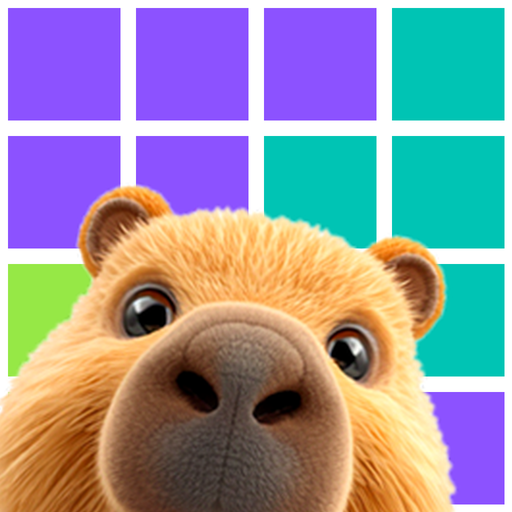
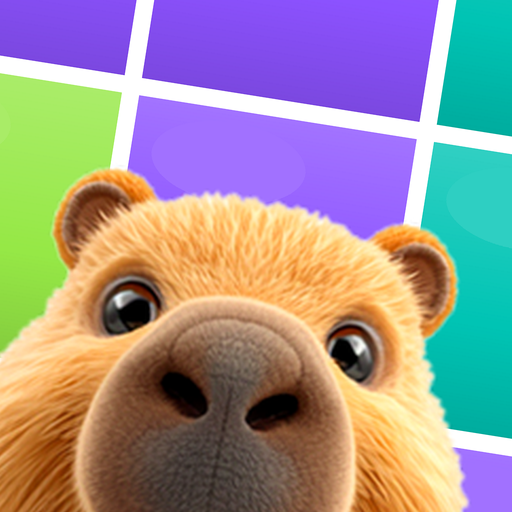
아이콘 광택·큰 타일, 출석은 선물을 안고 자는 카피로
**아이콘**(사용자 요청): 타일을 4칸 → 3칸으로 키우고, 판을 9° 눕히고,
칸마다 광택을 얹었다(위는 밝게 아래는 어둡게 + 왼쪽 위 하이라이트).
카피도 조금 더 키웠다. 단색 면은 아무리 색이 예뻐도 종이처럼 보인다.

광택을 넣다가 한 번 새까맣게 만들었다 — **RGBA 이미지에 직접 그리면 PIL이
알파를 안 섞고 그대로 덮어쓴다.** 따로 그린 뒤 합성해야 한다. 흰 선 굵기도
큰 캔버스가 아니라 잘라 낸 뒤의 크기 기준으로 잡는다(안 그러면 1.75배 굵다).

**출석**(사용자 지적: 이미지를 귀엽게, 더 직관적으로).
- 카피가 **오늘 받을 것을 안고 잔다.** 무엇을 받는지 글자보다 그림이 먼저
  말한다. 새 렌더가 아니라 리그의 `HeldFood`를 자는 자세에 물린 것이다
  (캔바 할당량이 없다 — 진짜 "귤 안은 어린이 카피" 렌더는 다음에).
- **버튼 하나가 전부다.** "화면 아무 데나 누르면 깨어나요"는 정서는 좋았지만
  뭘 받는지, 뭘 해야 하는지가 안 보였다. 이제 버튼에 개수가 적혀 있고
  (`당근 3개 받기`), 받고 나면 그 버튼이 나가는 문이 된다.
- 깨는 동작을 하품 → 폴짝에서 **놀람 → 폴짝**으로 바꿨다. 하품은 2.6초짜리라
  버튼을 누른 사람에게는 그 사이가 먹통으로 느껴진다.
- 카피를 키우고(화면 높이의 31%) 여백을 줄였다. 이 화면의 주인공이다.

diff --git a/lib/ui/checkin_scene.dart b/lib/ui/checkin_scene.dart
@@ -9,9 +9,13 @@
 /// 그대로였다). 그건 **어느 게임에 붙여도 되는 화면**이라, 이 앱을 여는
 /// 첫 순간을 그런 것에 내주는 게 아까웠다.
 ///
-/// 지금은 이렇다. 초원에서 카피가 자고 있다 → 톡 깨운다 → 기지개를 켜고
-/// 폴짝 뛴다 → 당근이 쏟아진다. **깨우는 행동이 곧 출석**이고, 그게 이
-/// 게임에서 매일 하는 일(들여다보고 먹인다)과 같은 몸짓이다.
+/// 지금은 이렇다. 초원에서 카피가 **오늘의 선물을 안고 자고 있다** → 버튼을
+/// 누르면 깨어나 폴짝 뛰고 당근이 쏟아진다. 깨우는 행동이 곧 출석이고,
+/// 그게 이 게임에서 매일 하는 일(들여다보고 먹인다)과 같은 몸짓이다.
+///
+/// 한때는 "화면 아무 데나 누르면 깨어나요"였다. 정서는 좋았지만 **뭘 받는지,
+/// 뭘 해야 하는지가 안 보였다** — 받을 것을 카피 품에 안겨 두고 버튼에 그
+/// 개수를 적으니 누르기 전에 이미 다 읽힌다.
 ///
 /// 말투는 나른하게 — 이 앱에서 호들갑은 금지다.
 library;
@@ -92,10 +96,11 @@ class _CheckinSceneState extends State<CheckinScene>
     if (_awake) return;
     setState(() => _awake = true);
     Buzz.medium();
-    // 하품 → (길이만큼 기다렸다) 폴짝. 자다 깬 것이 먼저 읽혀야 한다.
-    _capy.play(CapyAct.yawn);
+    // 깜짝 놀라 깼다가 곧바로 신나서 폴짝. 하품부터 시키면 2.6초를 기다려야
+    // 해서, 버튼을 누른 사람에게는 그 사이가 "먹통"으로 느껴진다.
+    _capy.play(CapyAct.startle);
     Sfx.pet();
-    Timer(const Duration(milliseconds: 2500), () {
+    Timer(const Duration(milliseconds: 800), () {
       if (!mounted) return;
       _capy.play(CapyAct.cheer);
       Sfx.sparkle();
@@ -129,7 +134,8 @@ class _CheckinSceneState extends State<CheckinScene>
   @override
   Widget build(BuildContext context) {
     final size = MediaQuery.sizeOf(context);
-    final capyH = (size.height * 0.24).clamp(150.0, 260.0);
+    // 카피가 이 화면의 주인공이다. 작게 두면 초원 사진에 점 하나가 된다.
+    final capyH = (size.height * 0.31).clamp(190.0, 330.0);
     return Scaffold(
       backgroundColor: const Color(0xFFF7E9C8),
       body: GestureDetector(
@@ -151,7 +157,7 @@ class _CheckinSceneState extends State<CheckinScene>
           Positioned(
             left: 0,
             right: 0,
-            top: size.height * 0.52 - capyH,
+            top: size.height * 0.62 - capyH,
             height: capyH,
             child: Center(
               child: SizedBox(
@@ -170,11 +176,19 @@ class _CheckinSceneState extends State<CheckinScene>
                             controller: _capy,
                             skin: widget.skin,
                             happy: true)
-                        : CapySleeping(skin: widget.skin, height: capyH),
+                        // **오늘 받을 것을 안고 잔다.** 무엇을 받는지 글자로
+                        // 적기 전에 그림으로 먼저 보인다.
+                        : CapySleeping(
+                            skin: widget.skin,
+                            height: capyH,
+                            food: HeldFood(
+                                watermelon: _isLast, eaten: 0),
+                          ),
                     if (!_awake)
+                      // 머리 바로 오른쪽 위. 멀리 두면 누구 잠인지 안 읽힌다.
                       Positioned(
-                          top: -capyH * 0.06,
-                          right: -capyH * 0.10,
+                          bottom: capyH * 0.66,
+                          right: capyH * 0.04,
                           child: const _Zzz()),
                   ],
                 ),
@@ -217,15 +231,15 @@ class _CheckinSceneState extends State<CheckinScene>
           // ── 글자와 도장판 ──
           SafeArea(
             child: Column(children: [
-              const SizedBox(height: 18),
+              const SizedBox(height: 14),
               _StreakBadge(streak: widget.streak),
               const SizedBox(height: 6),
               Text(
                 widget.claimed
                     ? '오늘 몫은 다 받았어요'
                     : _awake
-                        ? (_isLast ? '일곱 날을 채웠네요' : '$_carrots개 챙겨 뒀어요')
-                        : '카피가 자고 있어요',
+                        ? (_isLast ? '일곱 날을 채웠네요!' : '잘 받았어요')
+                        : '카피가 안고 자고 있어요',
                 style: const TextStyle(
                     fontSize: 15,
                     color: Palette.brown,
@@ -244,36 +258,28 @@ class _CheckinSceneState extends State<CheckinScene>
                 child: SizedBox(
                   width: double.infinity,
                   height: 58,
-                  child: AnimatedOpacity(
-                    duration: const Duration(milliseconds: 300),
-                    opacity: _awake ? 1 : 0.0,
-                    child: FilledButton(
-                      style: FilledButton.styleFrom(
-                        backgroundColor: const Color(0xFFE8830C),
-                        shape: RoundedRectangleBorder(
-                            borderRadius: BorderRadius.circular(999)),
-                      ),
-                      onPressed: _awake ? widget.onClaim : null,
-                      child: const Text('초원으로',
-                          style:
-                              TextStyle(fontSize: 19, color: Colors.white)),
+                  // **버튼 하나가 전부다.** 누르기 전에는 오늘 받을 것을
+                  // 개수까지 적어 두고, 받고 나면 나가는 문이 된다.
+                  child: FilledButton(
+                    style: FilledButton.styleFrom(
+                      backgroundColor: const Color(0xFFE8830C),
+                      shape: RoundedRectangleBorder(
+                          borderRadius: BorderRadius.circular(999)),
+                    ),
+                    onPressed: _awake ? widget.onClaim : _wake,
+                    child: Text(
+                      _awake
+                          ? '초원으로'
+                          : _isLast
+                              ? '당근 $_carrots개 + 수박 받기'
+                              : '당근 $_carrots개 받기',
+                      style: const TextStyle(
+                          fontSize: 19, color: Colors.white),
                     ),
                   ),
                 ),
               ),
               const SizedBox(height: 10),
-              // 깨우기 전에는 무엇을 해야 하는지 알려 준다. 화면 어디를 눌러도
-              // 되므로 버튼을 따로 두지 않는다 — 자는 걸 깨우는 일에 확인
-              // 버튼이 붙으면 그건 절차가 된다.
-              AnimatedOpacity(
-                duration: const Duration(milliseconds: 250),
-                opacity: _awake ? 0 : 1,
-                child: const Text('화면을 톡 누르면 깨어나요',
-                    style: TextStyle(
-                        fontSize: 13,
-                        color: Palette.brownSoft,
-                        fontFamily: 'Apple SD Gothic Neo')),
-              ),
               const SizedBox(height: 18),
             ]),
           ),

diff --git a/lib/art/capy_rig.dart b/lib/art/capy_rig.dart
@@ -1149,7 +1149,11 @@ class CapySleeping extends StatefulWidget {
   final String skin;
   final double height;
 
-  const CapySleeping({super.key, required this.skin, required this.height});
+  /// 안고 자는 것. null이면 빈손이다.
+  final HeldFood? food;
+
+  const CapySleeping(
+      {super.key, required this.skin, required this.height, this.food});
 
   @override
   State<CapySleeping> createState() => _CapySleepingState();
@@ -1190,11 +1194,15 @@ class _CapySleepingState extends State<CapySleeping>
             lean: 0.075,
             breathe: breath,
             squash: 0.10 - breath * 0.04,
-            armL: -0.10,
-            armR: 0.10,
+            // 뭘 안고 자면 앞발이 가슴 앞으로 모인다. 빈손이면 늘어뜨린다.
+            armL: widget.food != null ? -0.40 : -0.10,
+            armR: widget.food != null ? 0.40 : 0.10,
+            armLY: widget.food != null ? -0.035 : 0,
+            armRY: widget.food != null ? -0.035 : 0,
           ),
           height: widget.height,
           skin: widget.skin,
+          food: widget.food,
         );
       },
     );

diff --git a/tool/gen_icon.py b/tool/gen_icon.py
@@ -32,44 +32,83 @@ COLORS = [
 ]
 
 # 칸을 나누는 흰 선의 굵기(아이콘 크기 대비). 얇으면 48dp에서 사라진다.
-LINE_W = 0.030
+LINE_W = 0.034
 
-# 몇 칸으로 나눌까. 많으면 작게 줄었을 때 잔무늬가 된다.
-CELLS = 4
+# 몇 칸으로 나눌까. **적을수록 칸이 커서 멀리서도 읽힌다** — 4칸일 때는
+# 작게 줄이면 잔무늬가 됐다.
+CELLS = 3
+
+# 판을 이만큼 비스듬히 눕힌다. 반듯하면 UI 부품처럼 보이고, 너무 기울이면
+# 무슨 모양인지 안 읽힌다.
+GRID_TILT = -9
 
 # 어느 칸이 어느 색인가. **덩어리로 묶는다** — 체크무늬로 흩으면 퍼즐의
-# 색영역이 아니라 그냥 무늬가 된다. 이 게임의 판이 실제로 이렇게 생겼다.
+# 색영역이 아니라 그냥 무늬가 된다.
 REGIONS = [
-    [0, 0, 0, 1],
-    [0, 0, 1, 1],
-    [2, 0, 0, 1],
-    [2, 2, 0, 0],
+    [0, 0, 1],
+    [2, 0, 1],
+    [2, 0, 0],
 ]
 
 
+def _gloss(im, cells, step):
+    """칸마다 **위는 밝고 아래는 어둡게**, 그리고 왼쪽 위에 하이라이트.
+
+    단색 면은 아무리 색이 예뻐도 종이처럼 보인다. 같은 색의 밝기만 위아래로
+    벌려 주면 유리·사탕처럼 읽히고, 거기에 흰 하이라이트를 얹으면 반사가
+    생겨 입체가 된다.
+
+    **따로 그린 뒤 합성한다.** RGBA 이미지에 직접 그리면 PIL이 알파를 섞지
+    않고 그대로 덮어써서, 반투명하게 얹으려던 것이 새까만 띠가 된다.
+    """
+    over = Image.new('RGBA', im.size, (0, 0, 0, 0))
+    d = ImageDraw.Draw(over)
+    for row in range(cells):
+        for col in range(cells):
+            x0, y0 = col * step, row * step
+            # 위에서 아래로 어두워지는 그라디언트를 가로줄로 그린다.
+            for k in range(int(step)):
+                t = k / step
+                a = int(52 * (1 - t) - 34 * t)          # +밝게 → -어둡게
+                c = (255, 255, 255, a) if a > 0 else (0, 0, 0, -a)
+                d.line([(x0, y0 + k), (x0 + step, y0 + k)], fill=c)
+            # 왼쪽 위 하이라이트 — 둥근 광원이 비친 자리.
+            d.ellipse([x0 + step * 0.10, y0 + step * 0.07,
+                       x0 + step * 0.62, y0 + step * 0.34],
+                      fill=(255, 255, 255, 46))
+    im.alpha_composite(over)
+    return im
+
+
 def background(size):
-    """색영역 지도 + **흰 격자선**.
+    """색영역 지도 + **흰 격자선**, 살짝 눕히고 광택을 얹는다.
 
     한때 둥근 타일을 사이 간격을 두고 깔았는데, 그건 퍼즐판이 아니라 앱
     아이콘 모음처럼 보였다. 실제 판처럼 **면을 맞붙이고 흰 선으로 가르면**
     한눈에 "칸을 나눠 채우는 게임"으로 읽힌다(레퍼런스도 같은 문법이다).
     """
-    im = Image.new('RGBA', (size, size), COLORS[0])
+    # 눕혀도 네 귀퉁이가 비지 않도록 넉넉히 그린 뒤 잘라 낸다.
+    big = int(size * 1.75)
+    step = big / CELLS
+    im = Image.new('RGBA', (big, big), COLORS[0])
     d = ImageDraw.Draw(im)
-    step = size / CELLS
     for row in range(CELLS):
         for col in range(CELLS):
             d.rectangle([col * step, row * step,
                          (col + 1) * step, (row + 1) * step],
                         fill=COLORS[REGIONS[row][col]])
-    # 선은 면을 다 칠한 뒤에 긋는다. 칸마다 테두리를 그리면 맞닿은 자리에서
-    # 선이 두 번 겹쳐 굵기가 들쭉날쭉해진다.
-    w = max(2, round(size * LINE_W))
+    _gloss(im, CELLS, step)
+    # 선은 면과 광택을 다 올린 뒤에 긋는다. 칸마다 테두리를 그리면 맞닿은
+    # 자리에서 선이 두 번 겹쳐 굵기가 들쭉날쭉해진다.
+    w = max(3, round(size * LINE_W))
     for i in range(CELLS + 1):
         k = i * step
-        d.line([(k, 0), (k, size)], fill=(255, 255, 255, 255), width=w)
-        d.line([(0, k), (size, k)], fill=(255, 255, 255, 255), width=w)
-    return im
+        d.line([(k, -big), (k, big * 2)], fill=(255, 255, 255, 255), width=w)
+        d.line([(-big, k), (big * 2, k)], fill=(255, 255, 255, 255), width=w)
+    im = im.rotate(GRID_TILT, resample=Image.BICUBIC,
+                   center=(big / 2, big / 2))
+    o = (big - size) // 2
+    return im.crop((o, o, o + size, o + size))
 
 
 TILT = -11  # 갸웃한 각도. 정면으로 세워 두면 증명사진처럼 뻣뻣하다.
@@ -112,12 +151,12 @@ def main():
 
     # 얼굴은 크게, **왼쪽 아래 구석에서** 올라온다. 오른쪽 위로 판이 남아
     # "퍼즐 게임"으로도 읽힌다. 턱과 왼뺨은 모서리 밖으로 넘겨 잘라 낸다.
-    rising(bg, SIZE, 1.20, 0.44, 0.30).convert('RGB').save(f'{OUT}/icon.png')
+    rising(bg, SIZE, 1.32, 0.42, 0.26).convert('RGB').save(f'{OUT}/icon.png')
 
     # 적응형 전경: 바깥 1/4이 잘려 나가므로 얼굴을 조금 줄이고 가운데로
     # 당긴다. 그래도 같은 방향에서 올라오는 실루엣은 유지한다.
     fg = Image.new('RGBA', (SIZE, SIZE), (0, 0, 0, 0))
-    rising(fg, SIZE, 0.90, 0.46, 0.30).save(f'{OUT}/icon_fg.png')
+    rising(fg, SIZE, 1.00, 0.45, 0.27).save(f'{OUT}/icon_fg.png')
 
     for n in ('icon.png', 'icon_bg.png', 'icon_fg.png'):
         print(f'{OUT}/{n}  {os.path.getsize(f"{OUT}/{n}") // 1024}KB')
